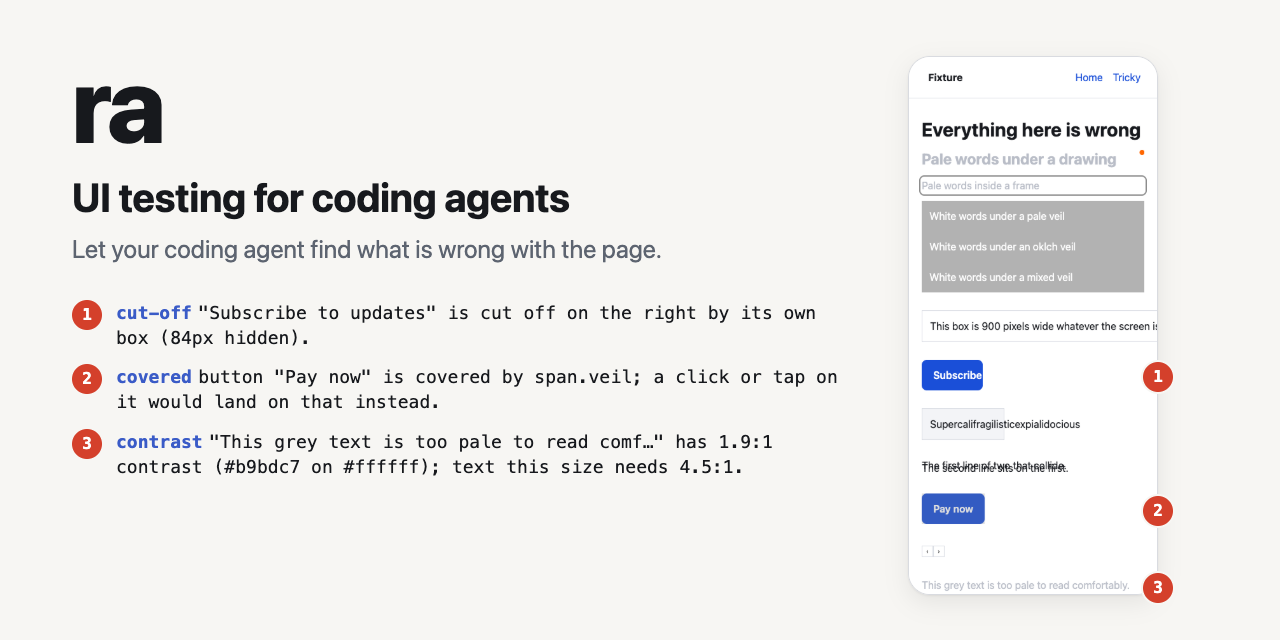
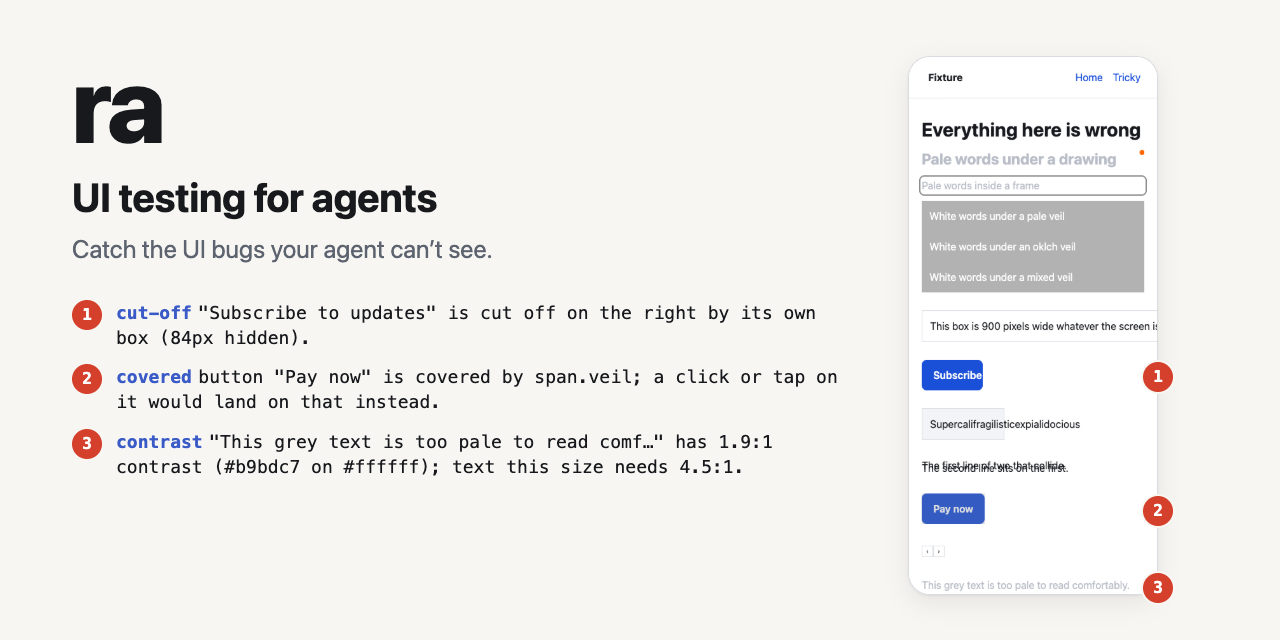
Name the category UI testing for agents, and open with why
The owner chose the category on 18 November 2026. The README's second
paragraph now says why ra measures instead of leaving a screenshot to a
model, and the fake world gets its own paragraph under the picture. The
share card carries the new category and tagline.

Changed region(s): [[0.0625, 0.375, 0.5312, 0.4062], [0.25, 0.2812, 0.4688, 0.3438]]

diff --git a/README.md b/README.md
@@ -4,9 +4,9 @@
 [![CI](https://github.com/hraness/ra/actions/workflows/ci.yml/badge.svg)](https://github.com/hraness/ra/actions/workflows/ci.yml)
 [![Licence: MIT](https://img.shields.io/badge/licence-MIT-blue)](LICENSE)
 
-ra opens your web app in Chromium, inside a fake world you describe, and tells your coding agent in sentences what a person would find wrong. It is UI testing for coding agents, made to run in the middle of a change.
+ra opens your web app in Chromium, inside a fake world you describe, and tells your coding agent in sentences what a person would find wrong. It is UI testing for agents, made to run in the middle of a change.
 
-The world is the API replies you write, the hosts you block, and stand-ins for the services your server calls. ra looks at each state you name, such as an empty inbox, a failed payment, or a name 80 characters long, on desktop, on a phone, and in dark mode. Each finding is one sentence that names the element and, where it can, says by how much. Boxes come from the layout engine and contrast from the painted pixels, so CI has no screenshot baselines to approve.
+A coding agent that checks a UI change with a screenshot leaves a model to judge it, and [models misjudge the measurements](#how-it-compares) that layout bugs come down to. ra measures them: boxes come from the layout engine and contrast from the painted pixels, so CI has no screenshot baselines to approve. Each finding is one sentence that names the element and, where it can, says by how much.
 
 <picture>
   <source media="(prefers-color-scheme: dark)" srcset=".github/media/ra-look-dark.png">
@@ -14,6 +14,8 @@ The world is the API replies you write, the hosts you block, and stand-ins for t
 </picture>
 
 That is `ra look broken --at phone` on [a fixture page](test/fixtures/site/broken.html) full of planted problems. Its twin, [`tricky.html`](test/fixtures/site/tricky.html), is full of things that only look wrong, and ra must print nothing for it.
+
+The page runs inside a fake world: the API replies you write, the hosts you block, and stand-ins for the services your server calls. A request that nothing in the world answers is stopped and reported. You name each state once, such as an empty inbox, a failed payment, or a name 80 characters long, and ra looks at it on desktop, on a phone, and in dark mode.
 
 ## Start
 
